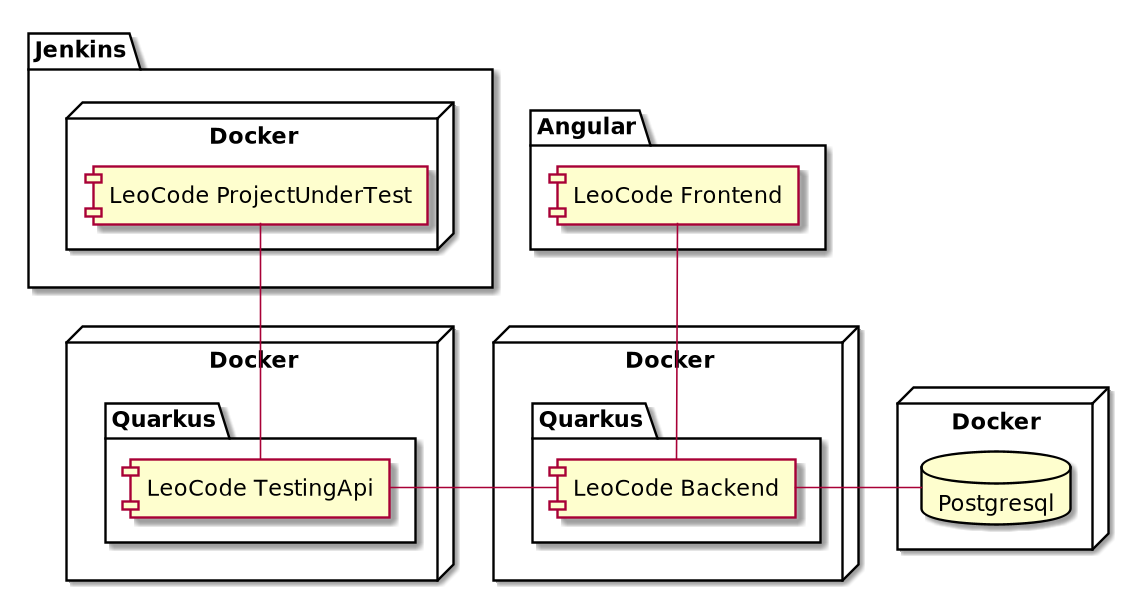
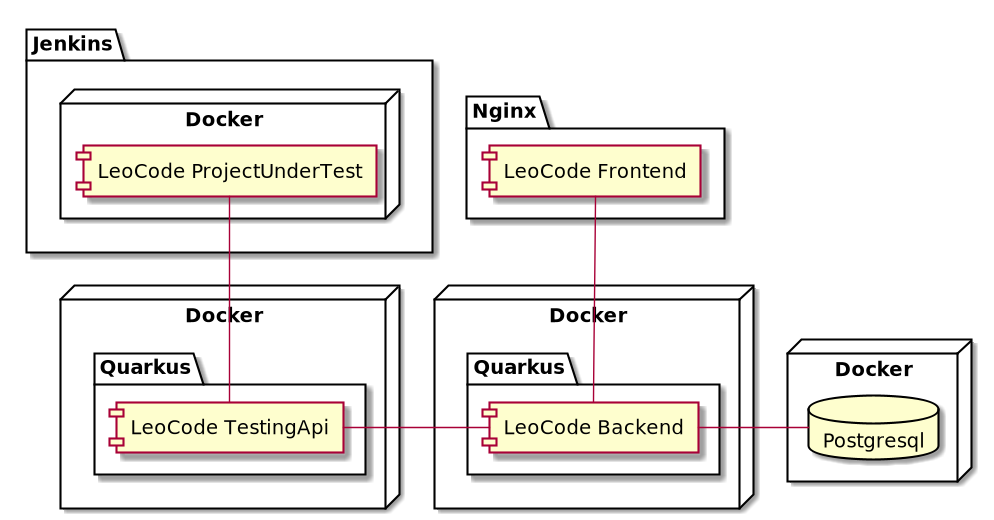
update several files

Changed region(s): [[0.0312, 0.1231, 0.998, 1.0], [0.0, 0.0615, 0.4366, 0.4923]]

diff --git a/revealjs/presentation.html b/revealjs/presentation.html
@@ -154,9 +154,9 @@ gern den Lernaufwand der jeder selbst investiert auch zur Benotung heranziehen, 
 ausprobiern</p></li><li><p>Hat ein Schüler ein Beispiel programmiert kann dieser die Code Files einsenden, die Files werden nach Funktionalität
 (Unittest von Lehrern) und spezielle Umsetzungen (ist String Builder verwendet worden) getestet</p></li><li><p>Programmiert ein Schüler ein Beispiel wird das jeweilige Beispiel und dessen Ergebnis einem Schülerportfolio
 zugeordnet</p></li></ul></div></aside></div></section></section>
-<section><section id="_wie_werden_die_ziele_realisiert"><h2>Wie werden die Ziele realisiert?</h2></section><section id="_verwendete_technologien"><h2>Verwendete Technologien</h2><div class="slide-content"><div class="imageblock" style=""><img src="./assets/tech-stack.png" alt="tech-stack"></div></div></section><section id="_systemarchitektur_variante_1"><h2>Systemarchitektur Variante 1</h2><div class="slide-content"><div class="imageblock" style=""><img src="./assets/sysarch-with-jenkins.png" alt="sysarch with jenkins"></div></div></section><section id="_systemarchitektur_variante_2"><h2>Systemarchitektur Variante 2</h2><div class="slide-content"><div class="imageblock" style=""><img src="./assets/sysarch-without-jenkins.png" alt="sysarch without jenkins"></div></div></section></section>
+<section><section id="_wie_werden_die_ziele_realisiert"><h2>Wie werden die Ziele realisiert?</h2></section><section id="_verwendete_technologien"><h2>Verwendete Technologien</h2><div class="slide-content"><div class="imageblock" style=""><img src="./assets/tech-stack.png" alt="tech-stack"></div></div></section><section id="_systemarchitektur_istzustand"><h2>Systemarchitektur Istzustand</h2><div class="slide-content"><div class="imageblock" style=""><img src="./assets/sysarch-without-jenkins.png" alt="sysarch without jenkins"></div></div></section><section id="_systemarchitektur_soll"><h2>Systemarchitektur Soll</h2><div class="slide-content"><div class="imageblock" style=""><img src="./assets/sysarch-with-jenkins.png" alt="sysarch with jenkins"></div></div></section><section id="_ablauf_der_jenkins_variante"><h2>Ablauf der Jenkins Variante</h2><div class="slide-content"><div class="imageblock" style=""><img src="./assets/sequence.png" alt="sequence"></div></div></section></section>
 <section id="_aktueller_projektstatus"><h2>Aktueller Projektstatus</h2><div class="slide-content"><div class="ulist"><ul><li><p>Was funktioniert jetzt?</p></li><li><p>Nächste Schritte</p></li></ul></div>
-<aside class="notes"><div class="ulist"><ul><li><p>Backend, DB, Testing API ohne Docker, Angular funktioniert nocht nicht ausgereift</p></li><li><p>Jenkins Variante spezialisiern</p></li></ul></div></aside></div></section>
+<aside class="notes"><div class="ulist"><ul><li><p>Backend, DB, Testing API ohne Docker, Angular funktioniert nocht nicht ausgereift</p></li><li><p>Jenkins Variante spezialisiernje</p></li></ul></div></aside></div></section>
 <section id="_was_ist_leolearn"><h2>Was ist LeoLearn?</h2></section></div></div><script src="node_modules/reveal.js/js/reveal.js"></script><script>Array.prototype.slice.call(document.querySelectorAll('.slides section')).forEach(function(slide) {
   if (slide.getAttribute('data-background-color')) return;
   // user needs to explicitly say he wants CSS color to override otherwise we might break custom css or theme (#226)
